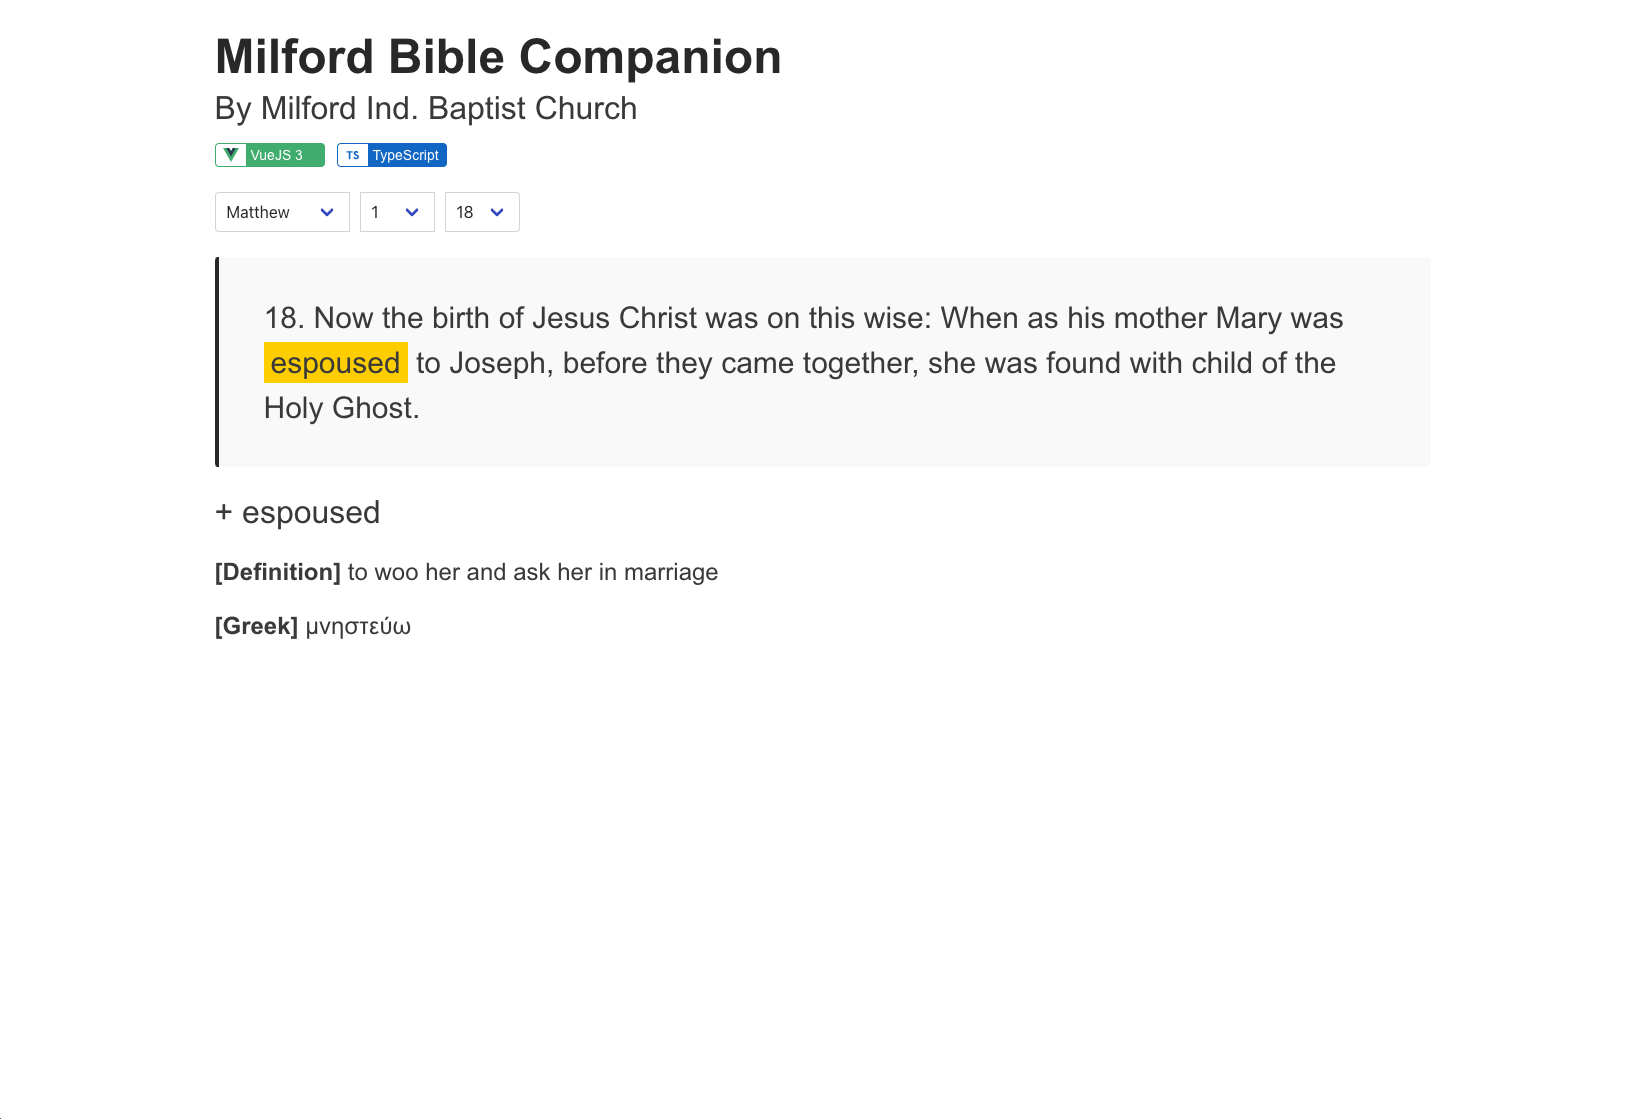
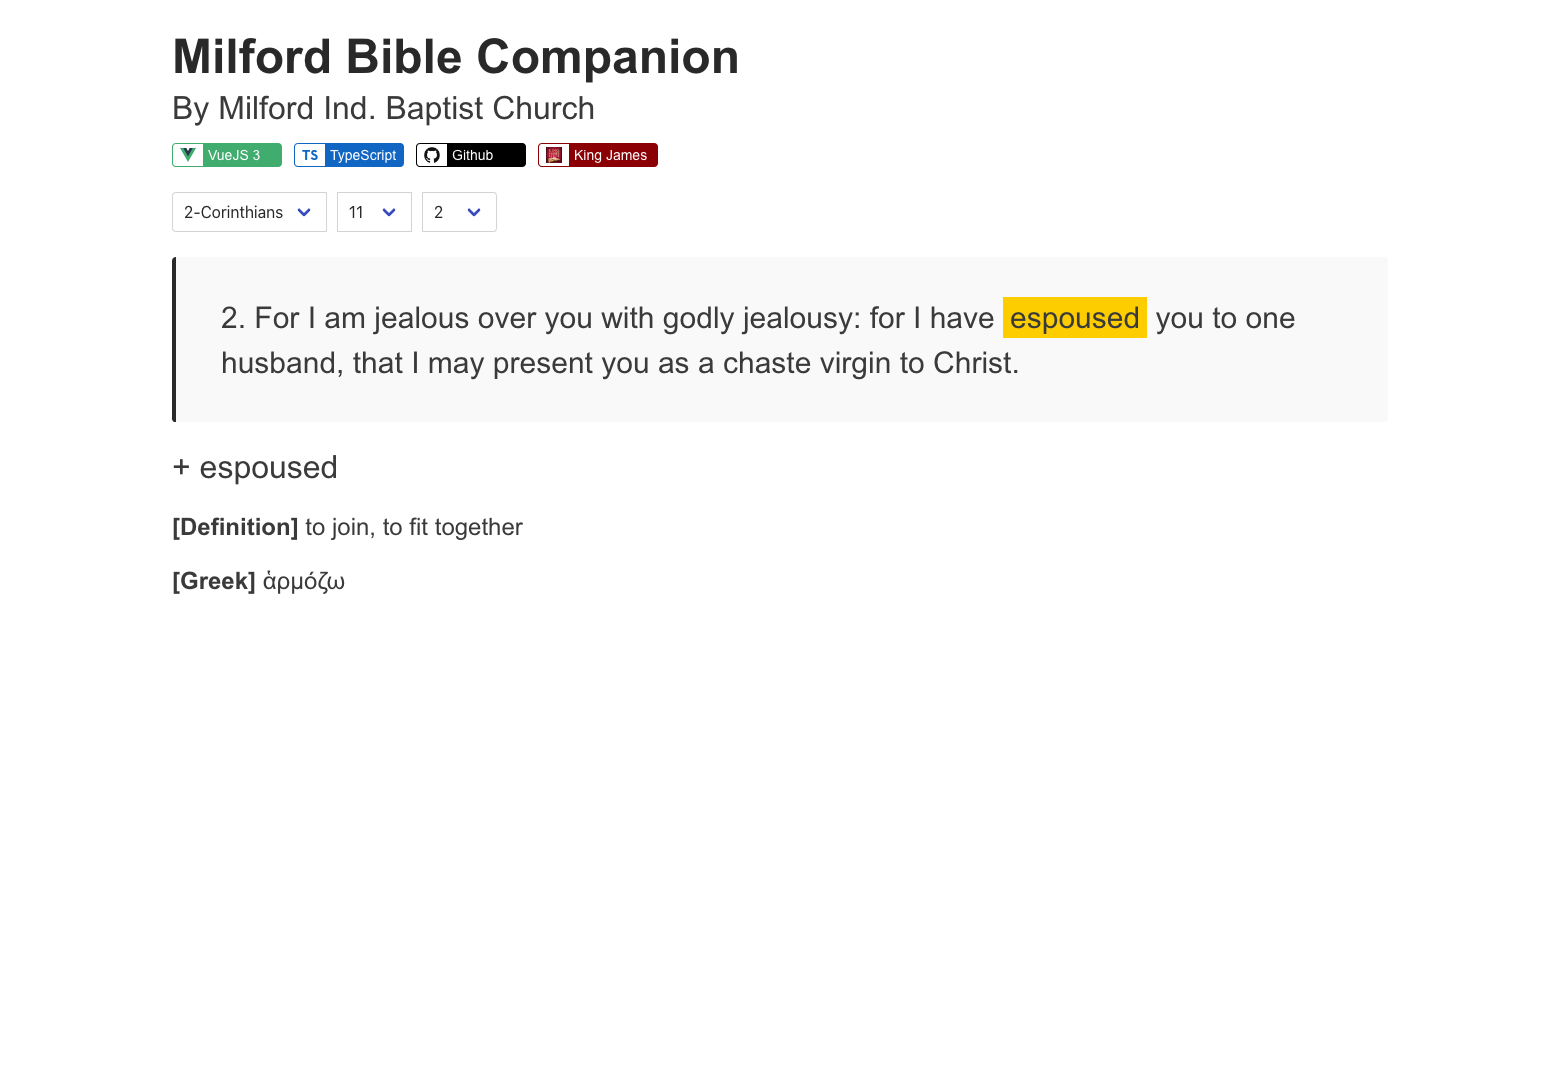
Update badges

diff --git a/src/components/Badge.vue b/src/components/Badge.vue
@@ -5,14 +5,31 @@
 </script>
 
 <template>
-  <div :class="{ badge: type === 'typescript', 'badge badge__alternate': type === 'vuejs' }">
+  <div :class="{
+    badge: type === 'typescript',
+    'badge badge__vuejs': type === 'vuejs',
+    'badge badge__github': type === 'github',
+    'badge badge__kingjames': type === 'kingjames'
+  }">
     <span class="badge-image-wrapper">
-        <img v-if="type.includes('typescript')" src="../assets/typescript.svg" class="ml-1 mr-1 badge-image" />
-        <img v-else src="../assets/vuejs.svg" class="ml-1 mr-1 badge-image" />
+        <img v-if="type.includes('vuejs')" src="../assets/vuejs.svg" class="ml-1 mr-1 badge-image" />
+        <img v-else-if="type.includes('typescript')" src="../assets/typescript.svg" class="ml-1 mr-1 badge-image" />
+        <img v-else-if="type.includes('github')" src="../assets/github.png" class="ml-1 mr-1 badge-image" />
+        <img v-else src="../assets/kingjames.png" class="ml-1 mr-1 badge-image" />
     </span>
     <span class="text-12 font-600 mr-1 badge-text">
-        <span v-if="type.includes('typescript')">TypeScript</span>
-        <span v-else>VueJS 3</span>
+        <a v-if="type.includes('vuejs')" href="https://vuejs.org" target="_blank">
+          VueJS 3
+        </a>
+        <a v-else-if="type.includes('typescript')" href="https://www.typescriptlang.org" target="_blank">
+          TypeScript
+        </a>
+        <a v-else-if="type.includes('github')" href="https://github.com/MilfordIndBaptistChurch/MilfordBibleCompanion" target="_blank">
+          Github
+        </a>
+        <a v-else href="https://www.kingjamesbibleonline.org" target="_blank">
+          King James
+        </a>
     </span>
   </div>
 </template>
@@ -29,10 +46,21 @@
     border: 1px solid #007acc;
   }
 
-  .badge__alternate {
+  .badge__vuejs {
     margin: 0;
     background: #41b883;
     border: 1px solid #41b883;
+  }
+
+  .badge__github {
+    background: #000000;
+    border: 1px solid #000000;
+  }
+
+  .badge__kingjames {
+    width: 120px;
+    background: #a10004;
+    border: 1px solid #a10004;
   }
 
   .badge-image-wrapper {
@@ -54,6 +82,10 @@
     color: #fff;
     font-size: 14px;
     margin-left: 5px;
+  }
+
+  .badge-text a {
+    color: #fff;
   }
 
 </style>

diff --git a/src/components/Study.vue b/src/components/Study.vue
@@ -6,7 +6,7 @@
 </script>
 
 <template>
-  <p class="subtitle is-3" style="margin: 25px 0 0 0">+ {{highlight}}</p>
+  <p v-if="highlight" class="subtitle is-3" style="margin: 25px 0 0 0">+ {{highlight}}</p>
   <div style="margin: 25px 0 0 0">
     <ul>
       <li class="subtitle is-4" v-for="(value, prop) in methods"><b style="text-transform: capitalize;">[{{prop}}]</b> {{value}}</li>

diff --git a/src/components/Header.vue b/src/components/Header.vue
@@ -11,5 +11,7 @@
     <p class="subtitle is-3" style="margin: -20px 0 15px 0">By Milford Ind. Baptist Church</p>
     <Badge type="vuejs" />
     <Badge type="typescript" />
+    <Badge type="github" />
+    <Badge type="kingjames" />
   </div>
 </template>
